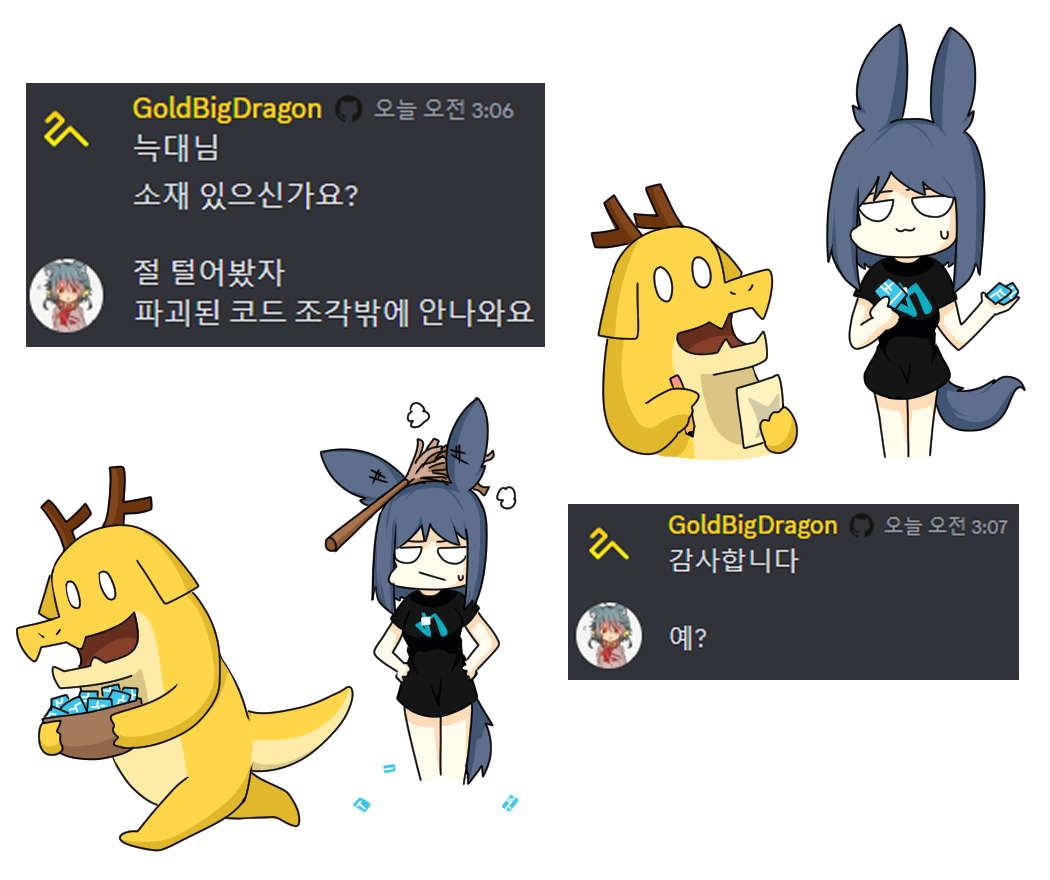
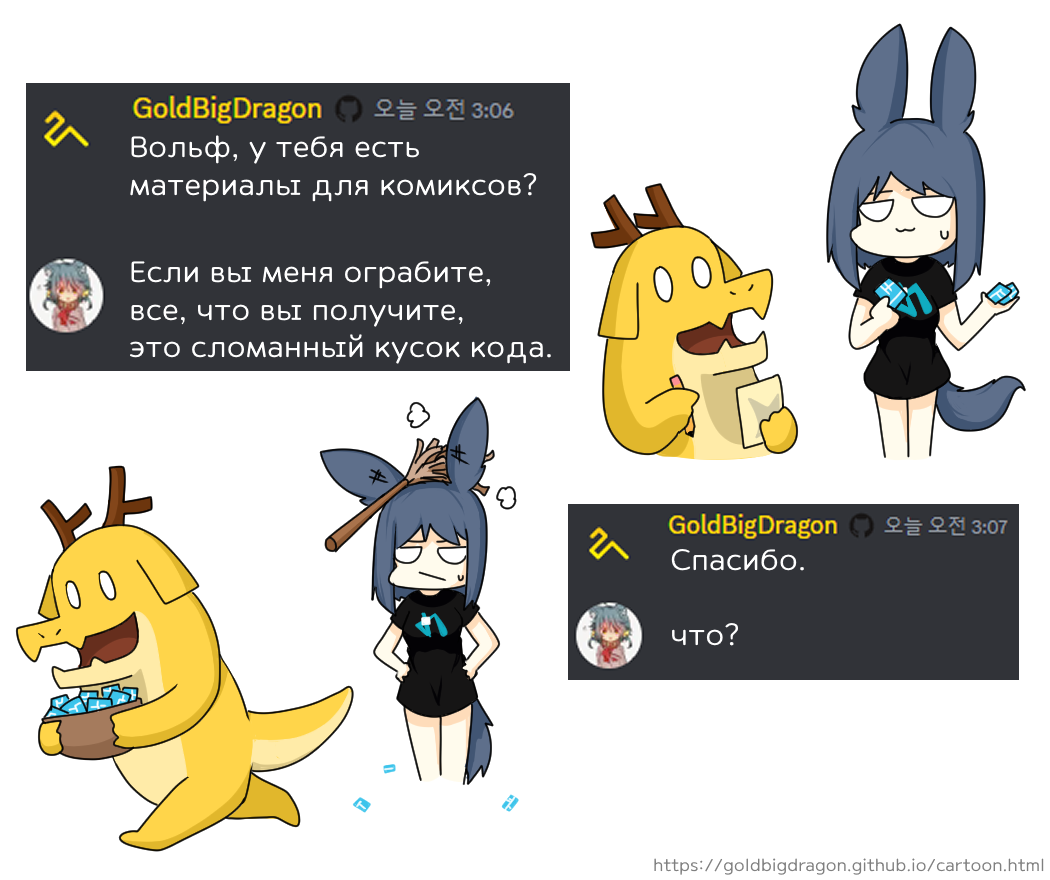
Daily touch

diff --git a/resources/data/index/etc.js b/resources/data/index/etc.js
@@ -1,6 +1,39 @@
 const DATA_ETC = [
 	{
 		"award-name":{
+			"en":"Certificate of Appreciation",
+			"kr":"감사장",
+			"jp":"感謝状",
+			"cn":"感谢状",
+			"ru":"Благодарность"
+		},
+		"award-date":"2024-06-28",
+		"awarding-organization":{
+			"en":"Korean National Police Agency - Ulsan Provincial",
+			"kr":"울산지방경찰청",
+			"jp":"蔚山警察庁",
+			"cn":"蔚山警察厅",
+			"ru":"Корейское национальное полицейское управление - провинциальное Ulsan"
+		},
+		"reason":{
+			"en":"Excellent activity in reporting harmful sites in May 2024",
+			"kr":"2024년 5월 유해 사이트 신고 활동 우수",
+			"jp":"2024年5月有害サイト届出活動優秀",
+			"cn":"2024年5月报告有害网站的出色活动",
+			"ru":"Отличная активность по сообщению о вредоносных сайтах в мае 2024 г."
+		},
+		"logo":"/resources/img/index/logo/etc/knpa.png",
+		"logo-title":{
+			"en":"Certificate of<br>Appreciation",
+			"kr":"감사장",
+			"jp":"感謝状",
+			"cn":"感谢状",
+			"ru":"Благодарность"
+		},
+		"proof":"/resources/img/index/proof/etc/2024_06_28_knpa_ulsan.jpg"
+	},
+	{
+		"award-name":{
 			"en":"Appreciation plaque",
 			"kr":"감사패",
 			"jp":"感謝楯",

diff --git a/resources/data/cartoon/cartoon_list.js b/resources/data/cartoon/cartoon_list.js
@@ -8,11 +8,11 @@ const CARTOON_LIST = [
 			"ru":"Чат- комната разработчиков"
 		},
 		"translating":{
-			"en":"Translating (80/242)",
+			"en":"Translating (82/242)",
 			"kr":"번역 완료",
-			"jp":"翻訳中 (80/242)",
-			"cn":"翻译 (80/242)",
-			"ru":"Перевод (80/242)"
+			"jp":"翻訳中 (82/242)",
+			"cn":"翻译 (82/242)",
+			"ru":"Перевод (82/242)"
 		},
 		"uid":"developer",
 		"pages": [
@@ -700,7 +700,7 @@ const CARTOON_LIST = [
 			},
 			{
 				"title":{
-					"en": "Broken",
+					"en": "Rotten",
 					"kr": "상했습니다",
 					"jp": "賞味期限切れになりました",
 					"cn": "溺爱",
